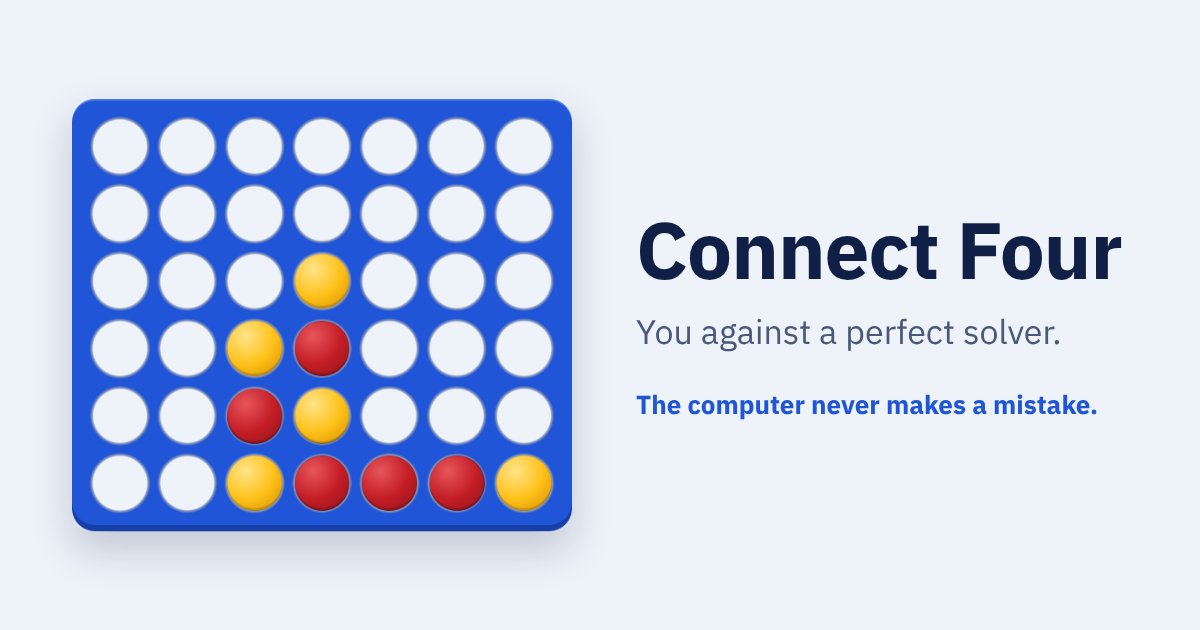
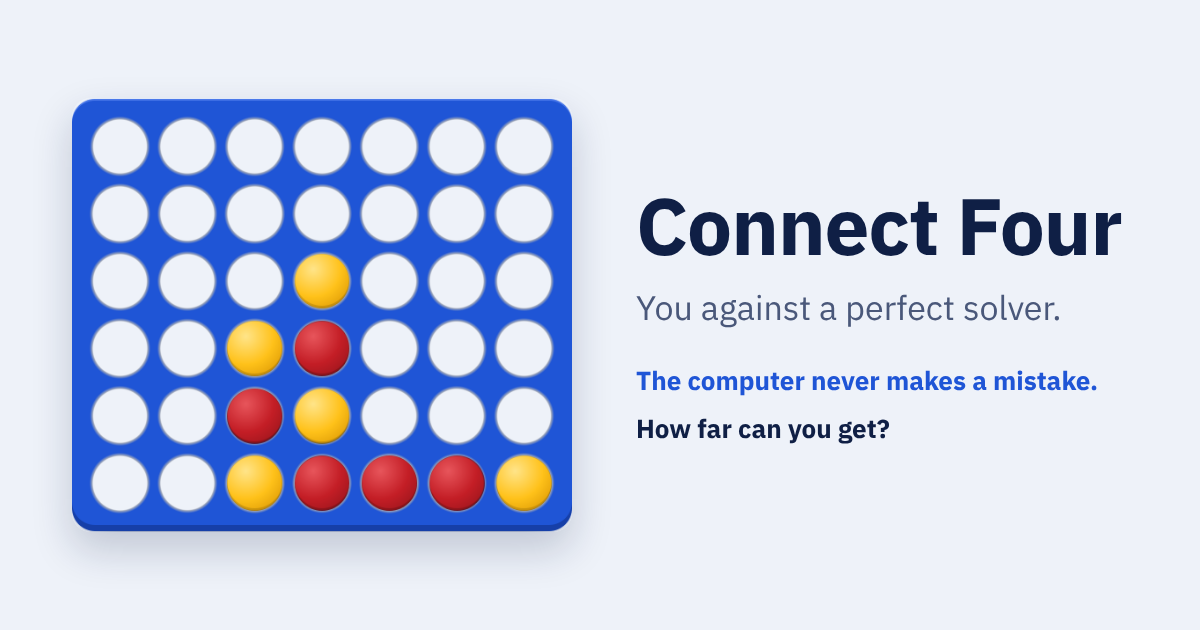
Ask how far you can get, in the share card and its description

Changed region(s): [[0.5242, 0.3016, 0.9558, 0.7238]]

diff --git a/index.html b/index.html
@@ -5,18 +5,18 @@
     <link rel="icon" type="image/svg+xml" href="/favicon.svg" />
     <meta name="viewport" content="width=device-width, initial-scale=1.0" />
     <meta name="theme-color" content="#EEF2F9" />
-    <meta name="description" content="Play Connect Four against a computer that never makes a mistake. It runs in your browser." />
+    <meta name="description" content="Play Connect Four against a computer that never makes a mistake. You can win, but only with a perfect game. How far can you get?" />
     <title>Connect Four against a perfect solver</title>
 
     <!-- The card shown when the link is shared (LinkedIn, WhatsApp, Facebook, X). Crawlers do not run scripts, so these stay in English whatever language the page starts in. -->
     <meta property="og:type" content="website" />
     <meta property="og:url" content="https://gilad-benshlomo.github.io/connect-four-solver/" />
     <meta property="og:title" content="Connect Four against a perfect solver" />
-    <meta property="og:description" content="Play Connect Four against a computer that never makes a mistake. It runs in your browser." />
+    <meta property="og:description" content="Play Connect Four against a computer that never makes a mistake. You can win, but only with a perfect game. How far can you get?" />
     <meta property="og:image" content="https://gilad-benshlomo.github.io/connect-four-solver/og-image.png" />
     <meta property="og:image:width" content="1200" />
     <meta property="og:image:height" content="630" />
-    <meta property="og:image:alt" content="A Connect Four board in the middle of a game, next to the title: Connect Four, you against a perfect solver." />
+    <meta property="og:image:alt" content="A Connect Four board in the middle of a game, next to the title: Connect Four, you against a perfect solver. How far can you get?" />
     <meta name="twitter:card" content="summary_large_image" />
   </head>
   <body>
